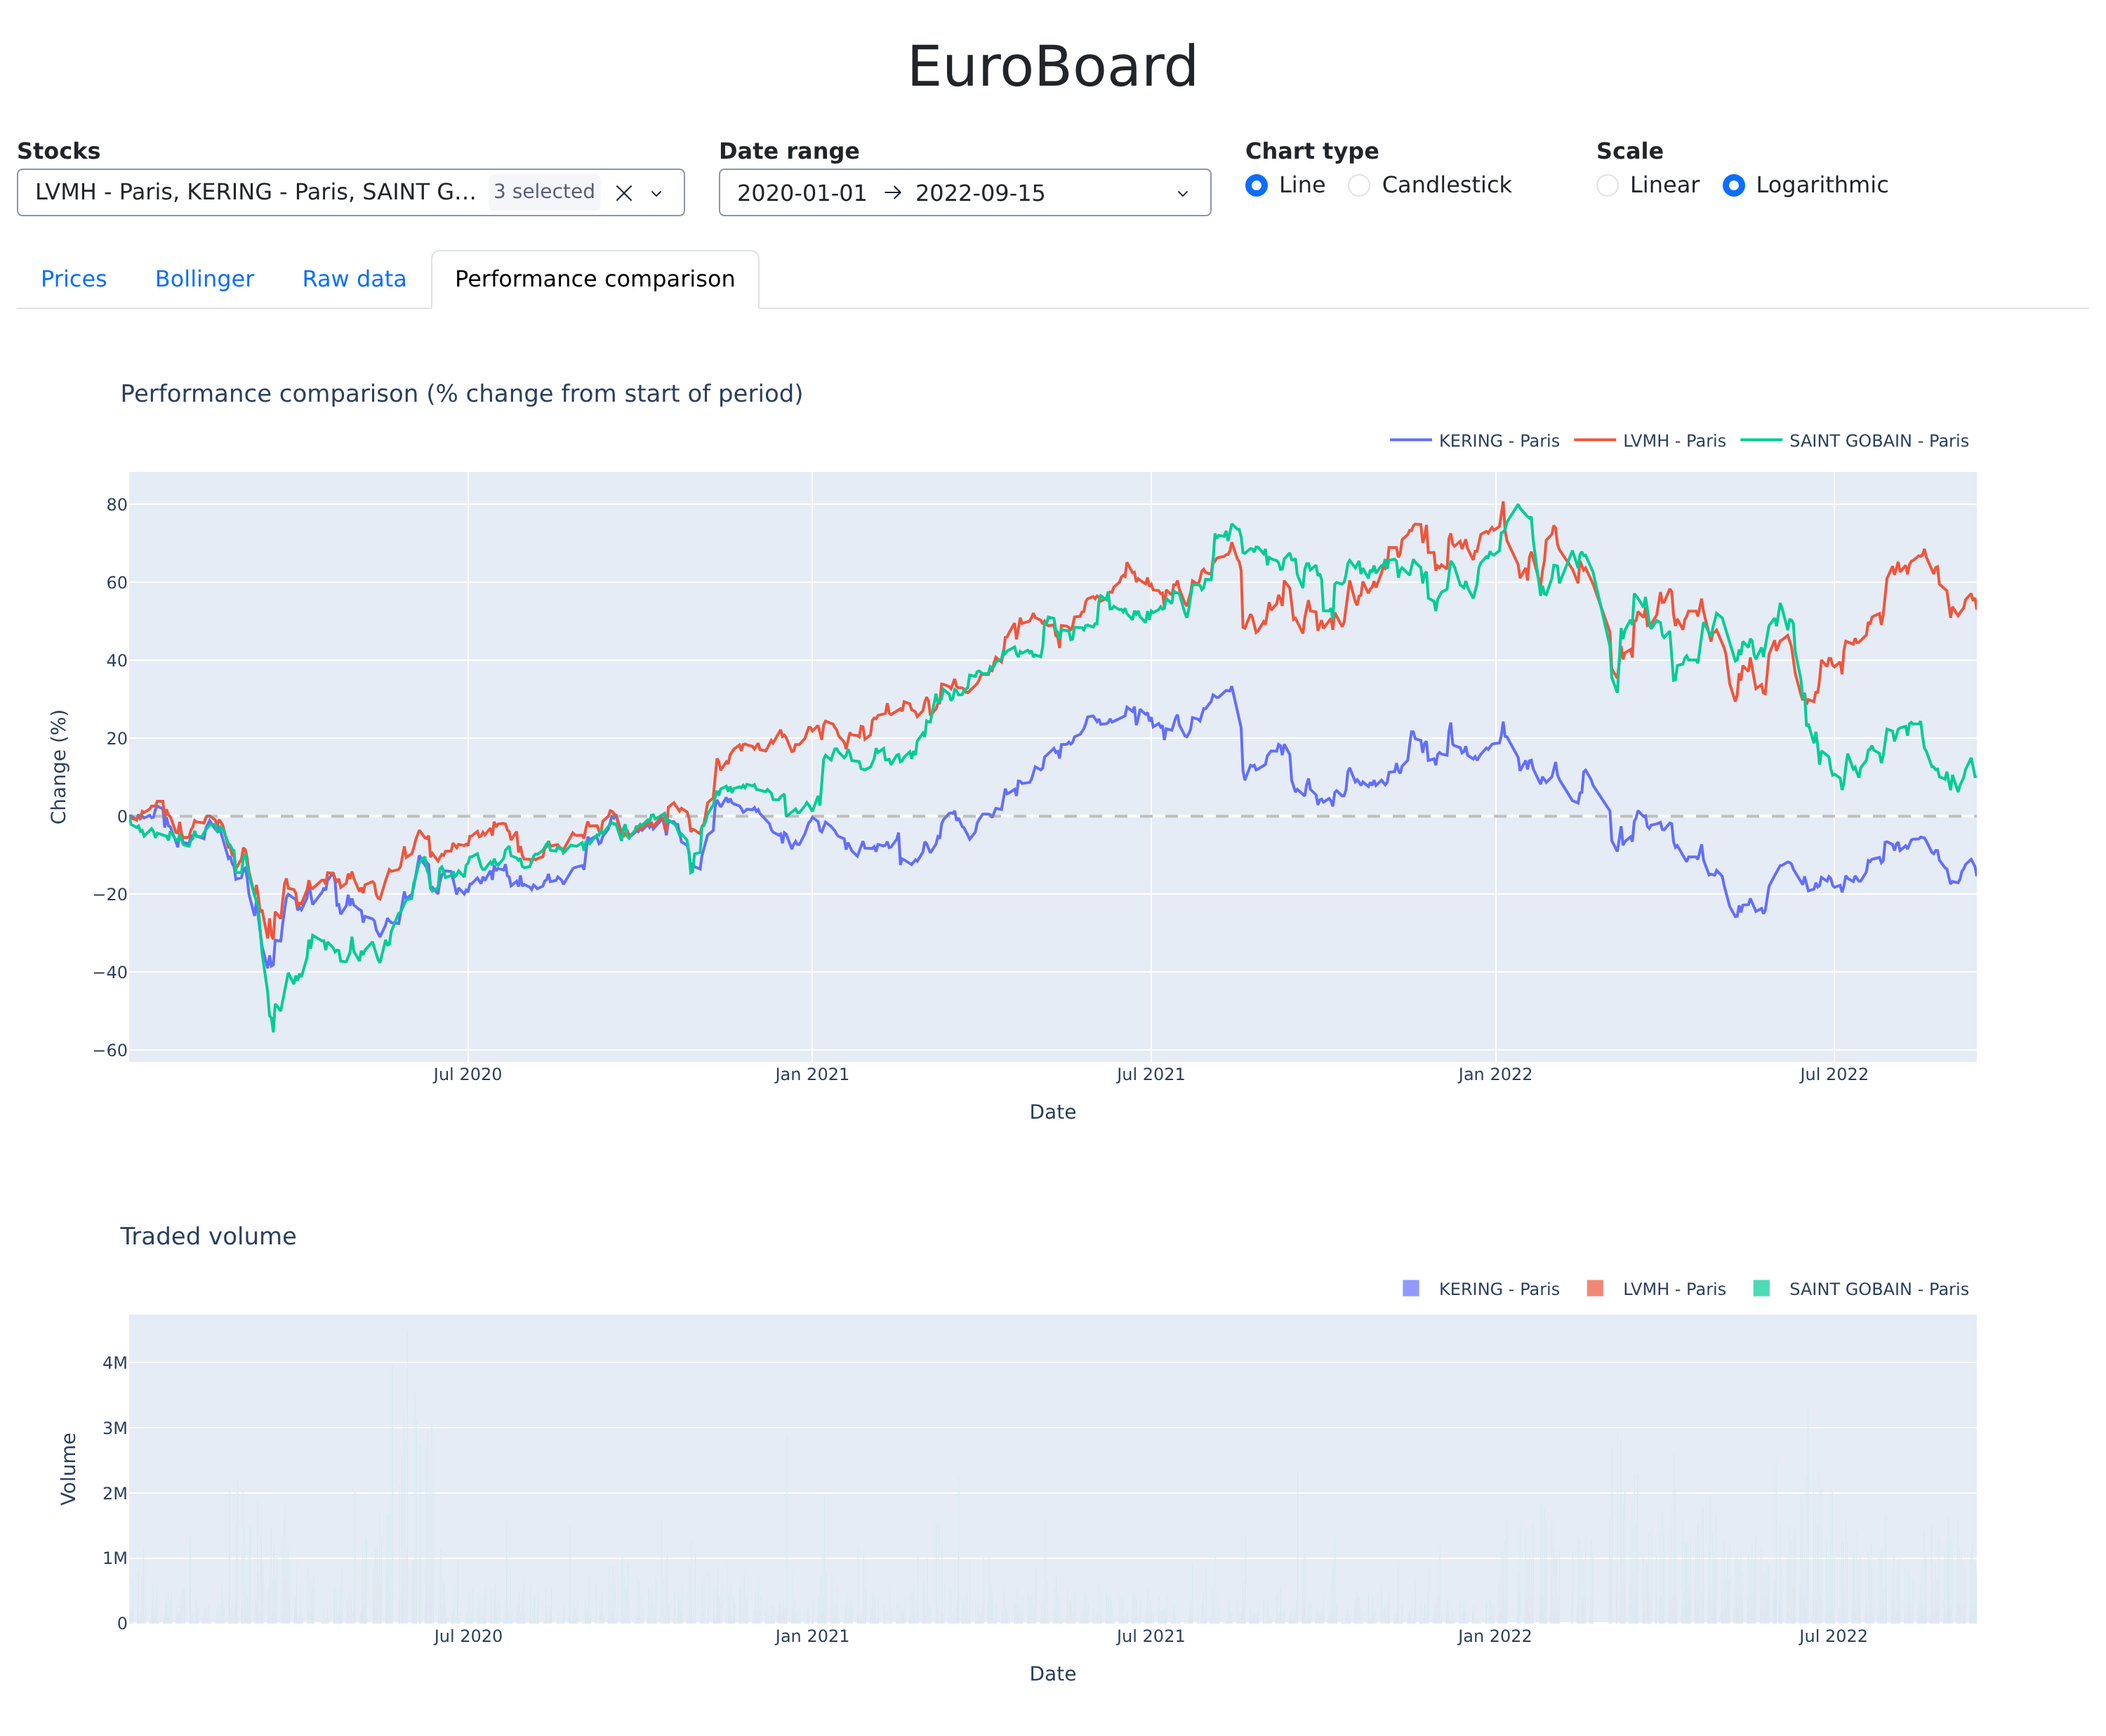
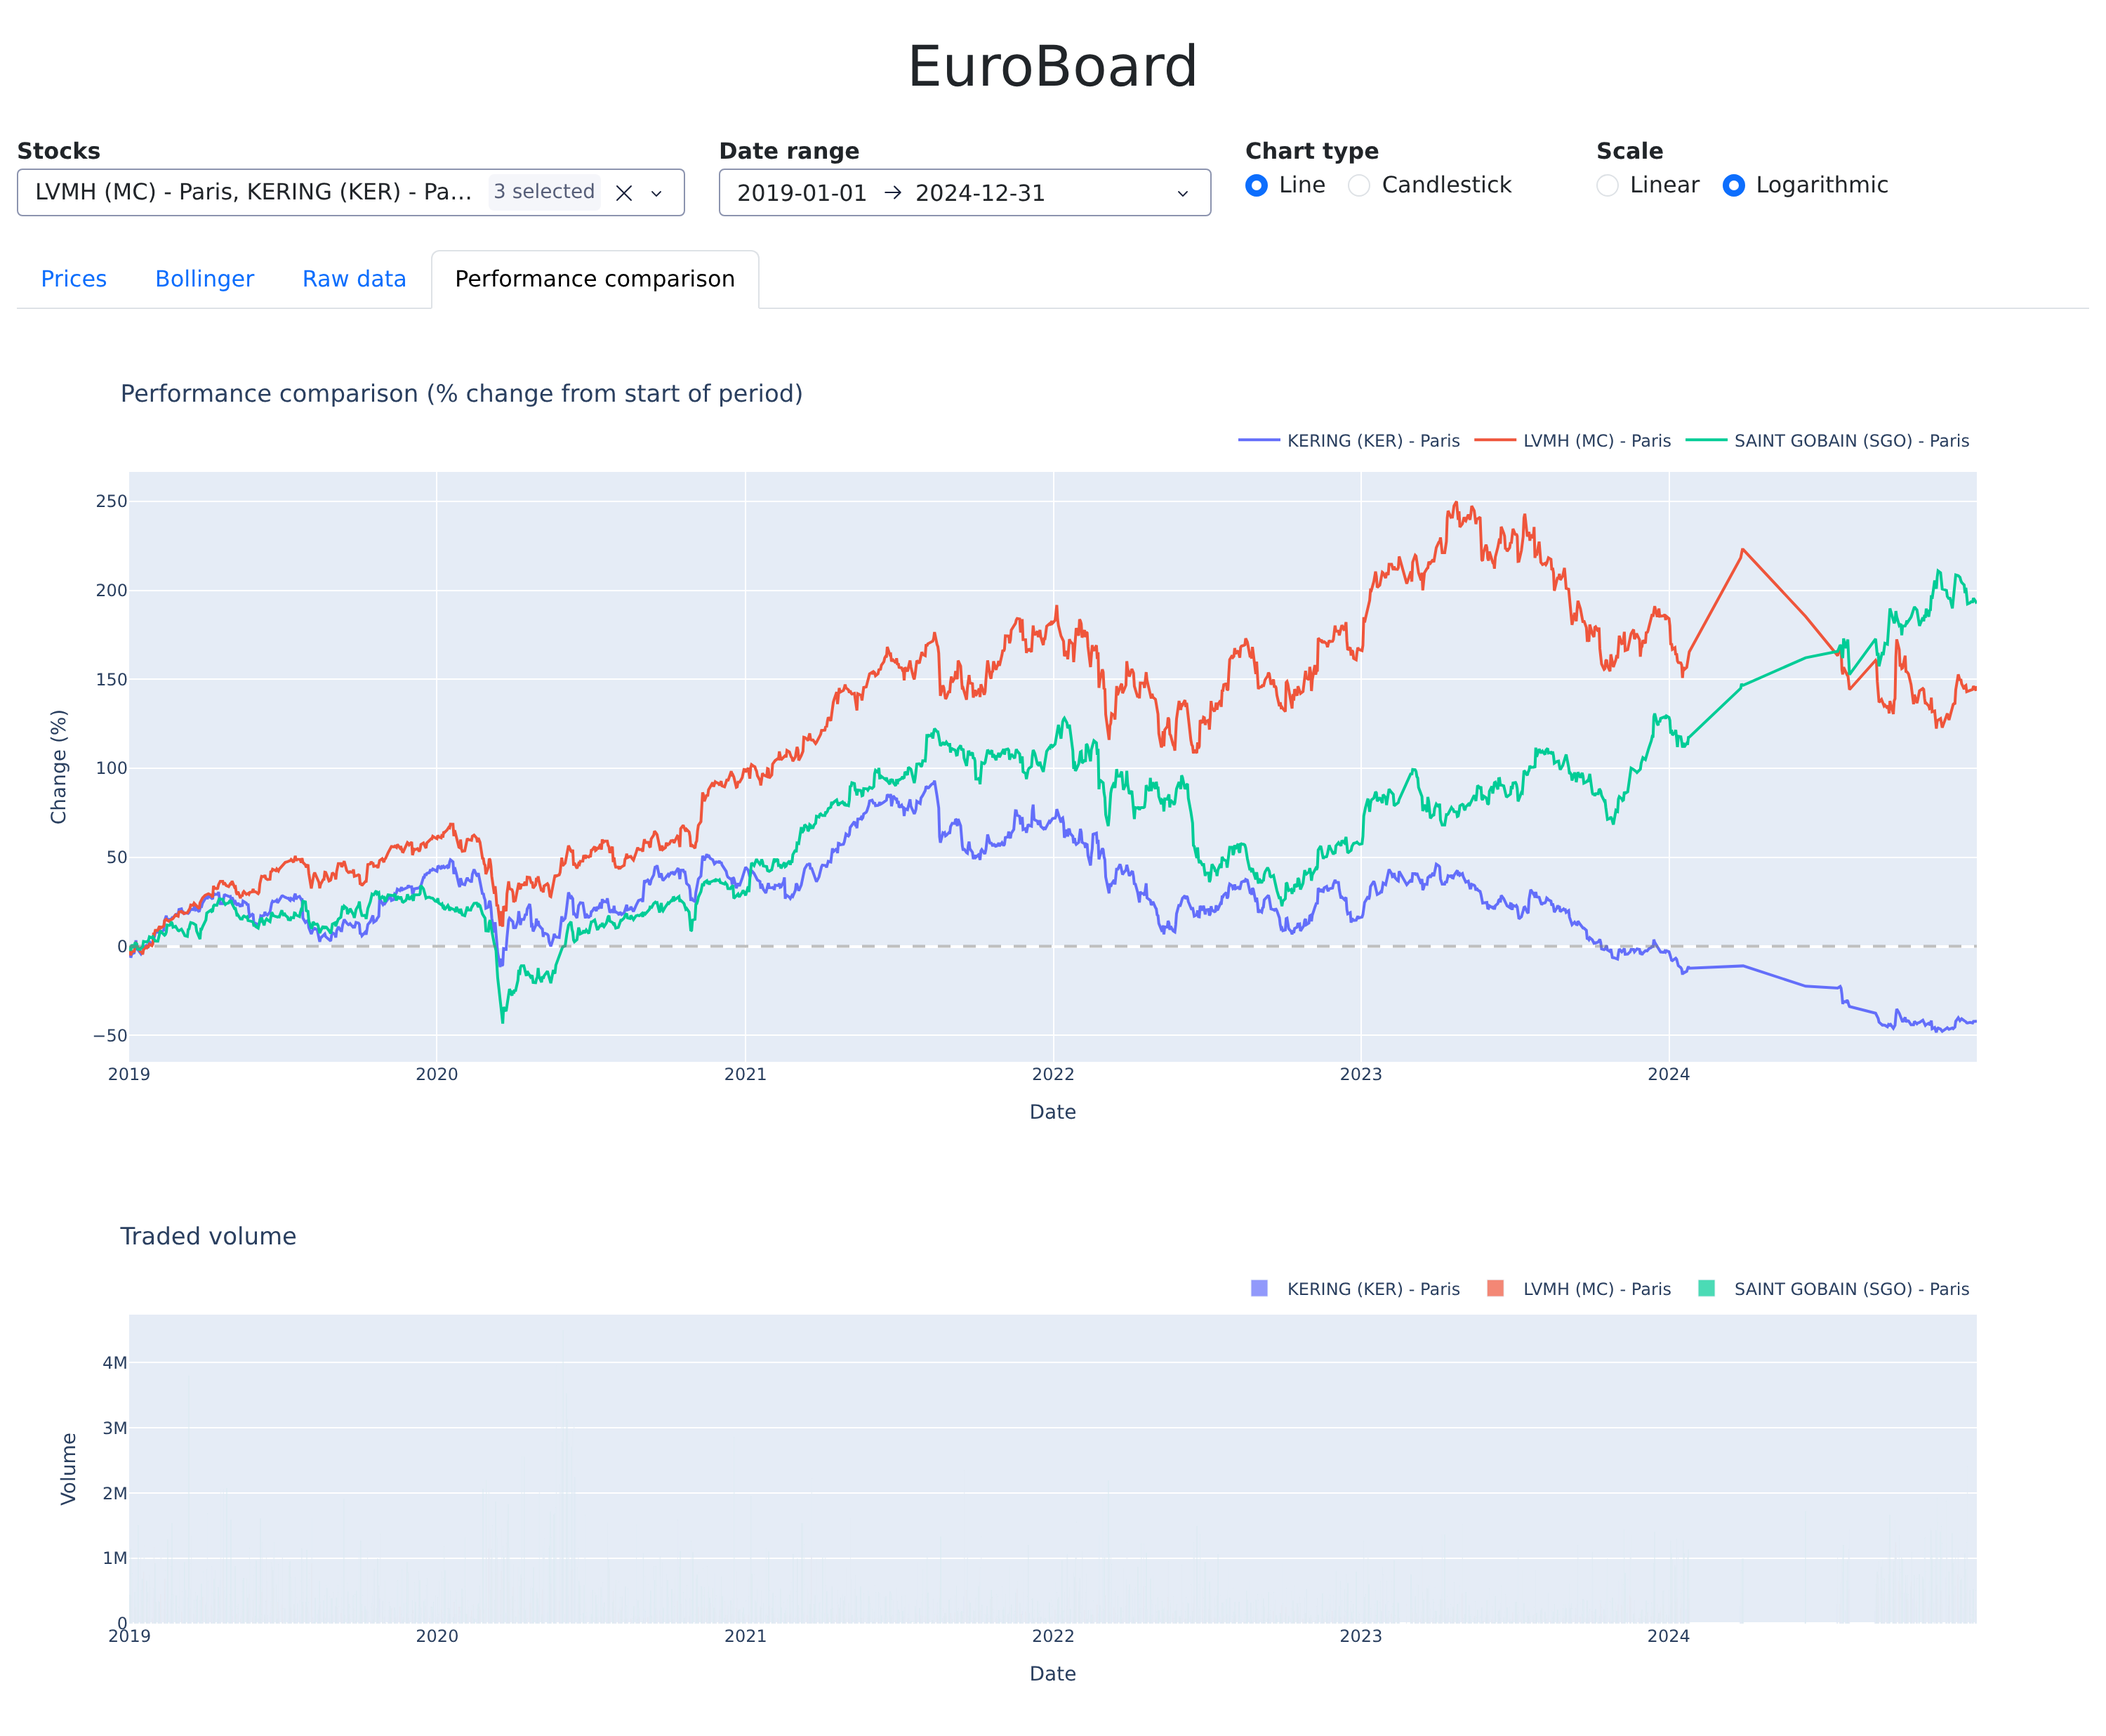
docs: describe the whole archive

diff --git a/README.md b/README.md
@@ -3,8 +3,8 @@
 Interactive dashboard for European stock market data, backed by a TimescaleDB
 hypertable store and an ETL pipeline that ingests raw exchange data files.
 
-Two years of Paris, Amsterdam, Brussels and Milan equities — roughly 12 million
-intraday points across 1 300+ companies — queried interactively from the browser.
+Six years of Paris, Amsterdam, Brussels and Milan equities — up to 48 million
+intraday points across 1 500 listings — queried interactively from the browser.
 
 ![EuroBoard dashboard](docs/images/overview.png)
 
@@ -66,13 +66,13 @@ The result should look like this:
 
 ```
 data/
-├── bourso/            # Boursorama intraday snapshots
-│   ├── 2020/          #   one directory per year
-│   │   └── compA 2020-01-02 09:05:02.123456.bz2
-│   └── 2021/
-└── euronext/          # Euronext end-of-day exports
-    ├── Euronext_Equities_2020-05-04.csv
-    └── Euronext_Equities_2022-10-20.xlsx
+├── bourso/            # Boursorama intraday snapshots, 2019-2024
+│   ├── 2019/          #   one directory per year
+│   │   └── compA 2019-01-02 09:05:02.123456.bz2
+│   └── ...
+└── euronext/          # Euronext end-of-day exports, 2020-2024
+    ├── Euronext_Equities_2020-05-04.csv    # CSV until 2022-09
+    └── Euronext_Equities_2022-10-20.xlsx   # XLSX from 2022-10
 ```
 
 Without it the application still starts, but the stock selector comes up empty.
@@ -86,9 +86,20 @@ docker compose up --build
 The dashboard is served at <http://localhost:8050>.
 
 On startup the application imports the configured date ranges, then serves. The
-first run takes a few minutes; later runs skip what is already imported. The
-database lives in a named Docker volume, so it survives `docker compose down`
-and machine restarts — use `docker compose down -v` to start from an empty one.
+default range is a two-year slice, which takes about fifteen minutes to load;
+widening it to the whole archive takes closer to an hour and yields some 48
+million intraday points. Later runs skip what is already imported, per Euronext
+file and per Boursorama day, so an interrupted import resumes rather than starts
+over. The database lives in a named Docker volume, so it survives
+`docker compose down` and machine restarts — use `docker compose down -v` to
+start from an empty one.
+
+To load everything the archive has:
+
+```bash
+BOURSO_START=2019-01-01 BOURSO_END=2025-01-01 EURONEXT_END=2025-01-01 \
+  docker compose up -d
+```
 
 ### Configuration
 
